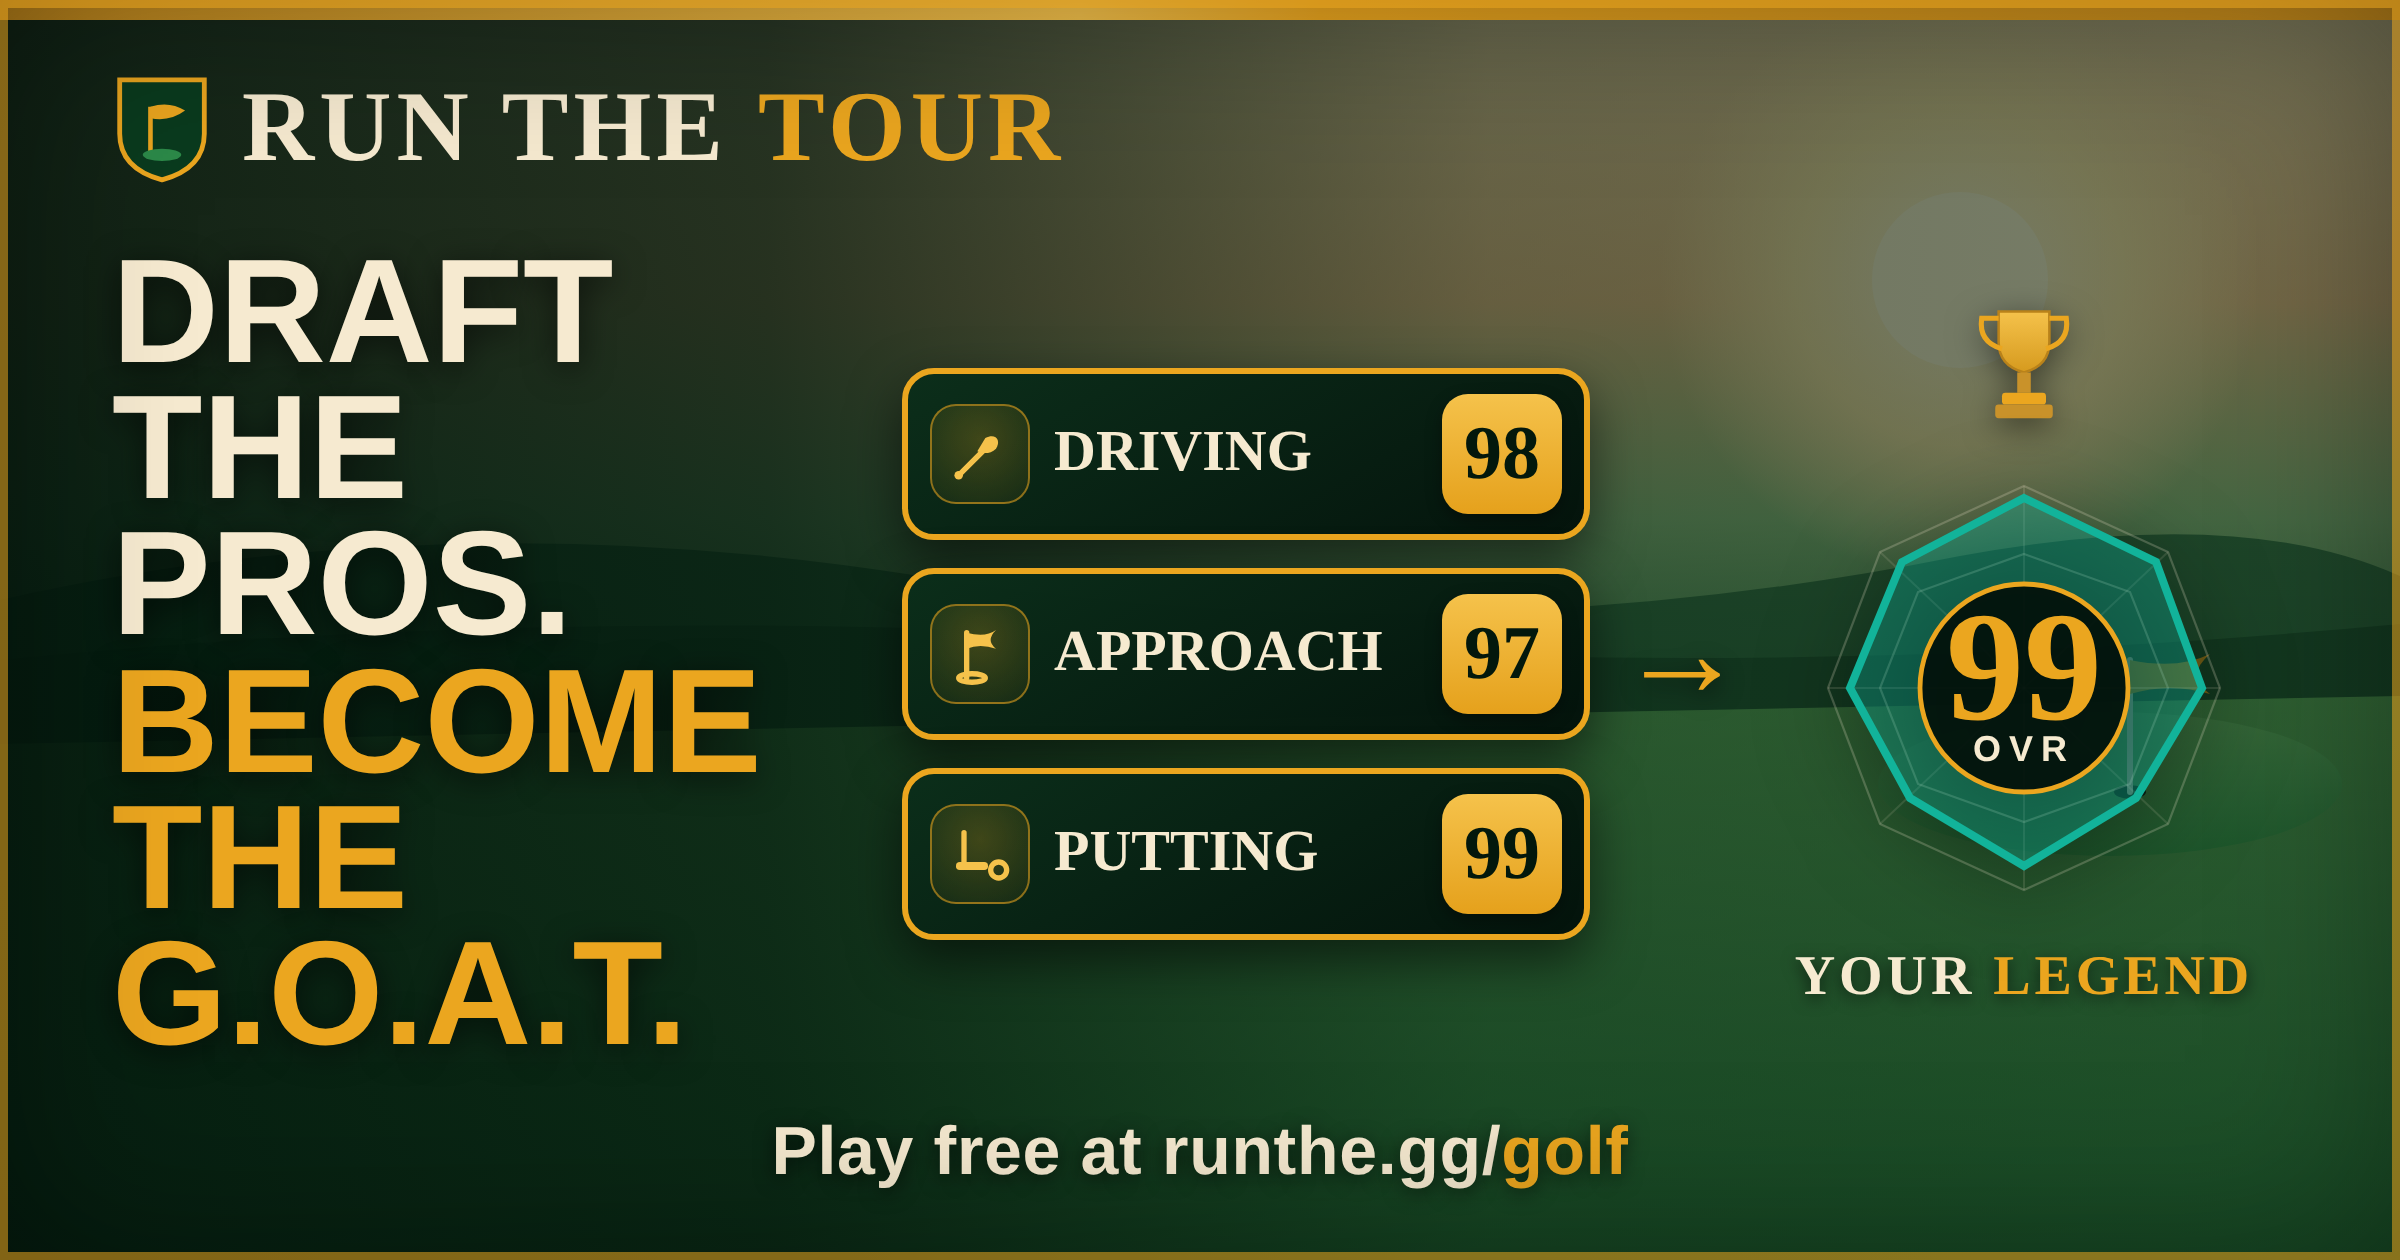
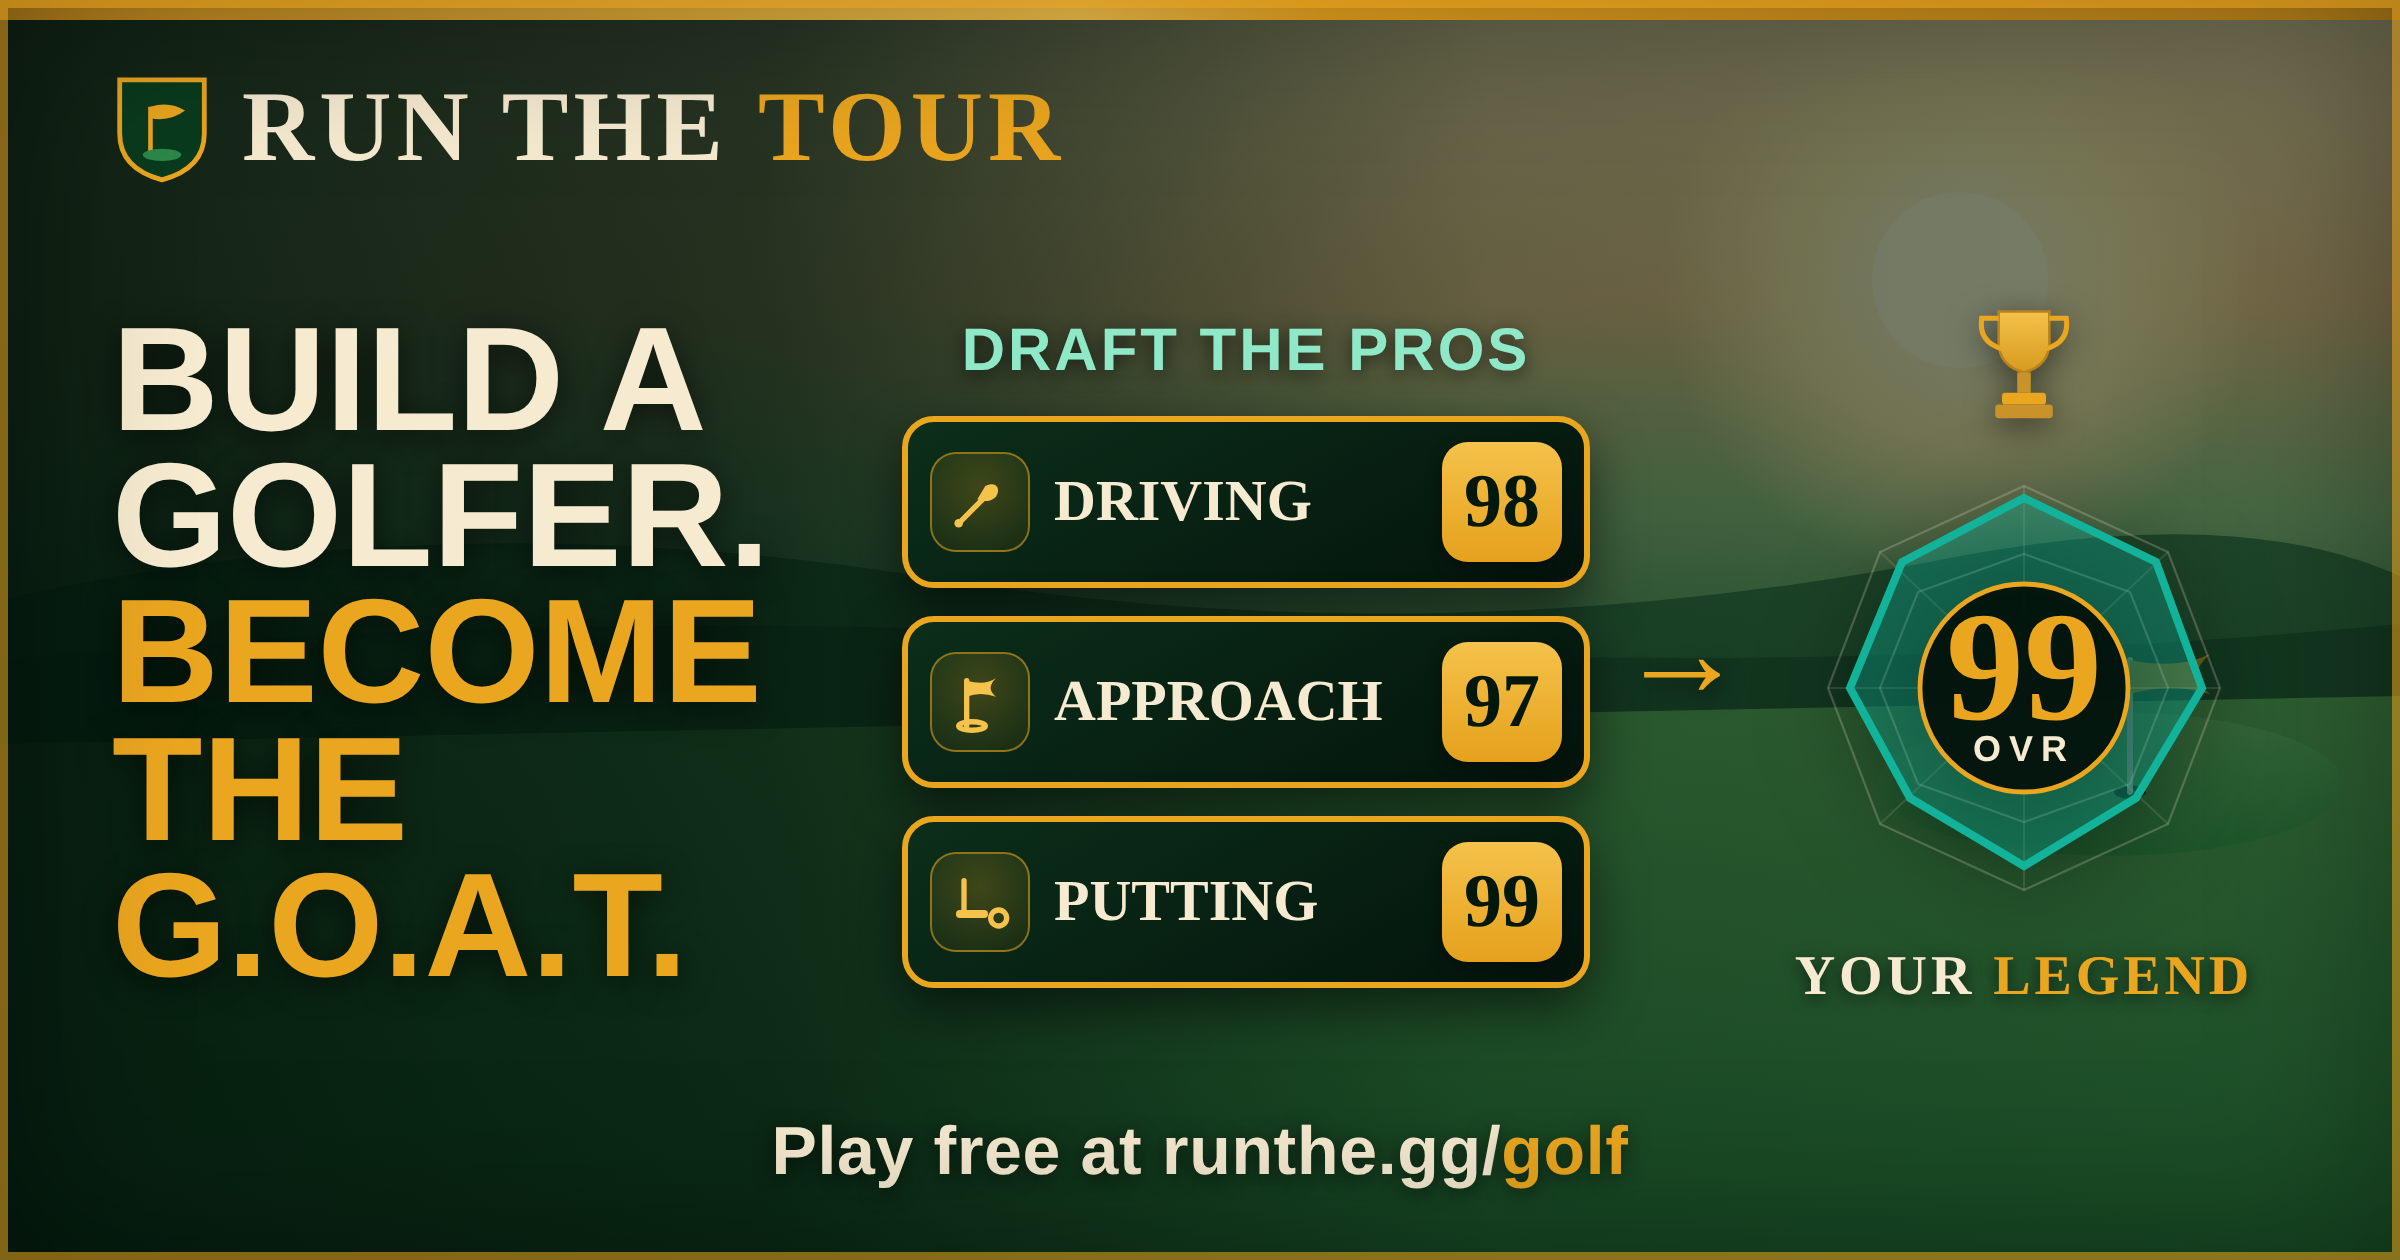
CS348e: OG - headline 'Build a golfer', 'Draft the pros' label over stat cards, ?v=8
Claude-Session: https://claude.ai/code/session_01L7fk68sivFqh98rLW3Jw5G

Changed region(s): [[0.375, 0.2476, 0.6875, 0.8048], [0.0312, 0.1857, 0.3125, 0.8357]]

diff --git a/build-a-golfer/og-source-b.html b/build-a-golfer/og-source-b.html
@@ -21,6 +21,7 @@
 
   .viz{flex:1;display:flex;align-items:center;justify-content:center;gap:14px}
   .draftcol{display:flex;flex-direction:column;gap:14px}
+  .dlabel{font-family:'Anton','Arial Narrow',Impact,sans-serif;font-weight:800;font-size:30px;letter-spacing:.05em;text-transform:uppercase;color:#8fe9c8;text-align:center;text-shadow:0 2px 9px rgba(0,0,0,.6);margin-bottom:1px}
   .scard{width:344px;height:86px;border-radius:16px;border:3px solid #EBA61F;overflow:hidden;
     background:linear-gradient(150deg,rgba(11,46,26,.98),rgba(3,18,11,.98));display:flex;align-items:center;gap:12px;padding:0 11px;
     box-shadow:0 10px 26px rgba(0,0,0,.55)}
@@ -75,11 +76,12 @@
 
     <div class="body">
       <div class="left">
-        <div class="h1"><div class="l1">Draft the pros.</div><div class="l2">Become the G.O.A.T.</div></div>
+        <div class="h1"><div class="l1">Build a golfer.</div><div class="l2">Become the G.O.A.T.</div></div>
       </div>
 
       <div class="viz">
         <div class="draftcol">
+          <div class="dlabel">Draft the pros</div>
           <div class="scard"><div class="ic"><svg viewBox="0 0 24 24"><path d="M4 20 L15 9"/><path d="M14 6 c4 -2 6 1 4 4 c-2 2 -5 2 -7 1 z" fill="#F5C24B" stroke="none"/><circle cx="4" cy="20" r="1.6" fill="#F5C24B" stroke="none"/></svg></div><div class="sk">Driving</div><div class="rt">98</div></div>
           <div class="scard"><div class="ic"><svg viewBox="0 0 24 24"><path d="M7 21 V4"/><path d="M7 4 q7 2 11 -1 q-4 4 0 7 q-6 -2 -11 0 Z" fill="#F5C24B" stroke="none"/><ellipse cx="9" cy="21" rx="5" ry="1.6"/></svg></div><div class="sk">Approach</div><div class="rt">97</div></div>
           <div class="scard"><div class="ic"><svg viewBox="0 0 24 24"><path d="M6 4 V15"/><rect x="3" y="15" width="12" height="3" rx="1.4" fill="#F5C24B" stroke="none"/><circle cx="19" cy="18" r="3"/></svg></div><div class="sk">Putting</div><div class="rt">99</div></div>

diff --git a/build-a-golfer/build-a-golfer.html b/build-a-golfer/build-a-golfer.html
@@ -14,7 +14,7 @@
 <meta property="og:url" content="https://runthe.gg/golf/">
 <meta property="og:title" content="Run The Tour: Draft the Pros, Become the G.O.A.T.">
 <meta property="og:description" content="Build one golfer by drafting a skill from each real pro (Tiger's putting, Rory's driver, Scottie's approach), then live a 30-year career chasing majors and greatest-of-all-time status. Play free.">
-<meta property="og:image" content="https://runthe.gg/golf/og.png?v=7">
+<meta property="og:image" content="https://runthe.gg/golf/og.png?v=8">
 <meta property="og:image:width" content="1200">
 <meta property="og:image:height" content="630">
 <meta property="og:image:alt" content="Run The Tour: draft skills from real pro golfers into one golfer and chase greatest-of-all-time status.">
